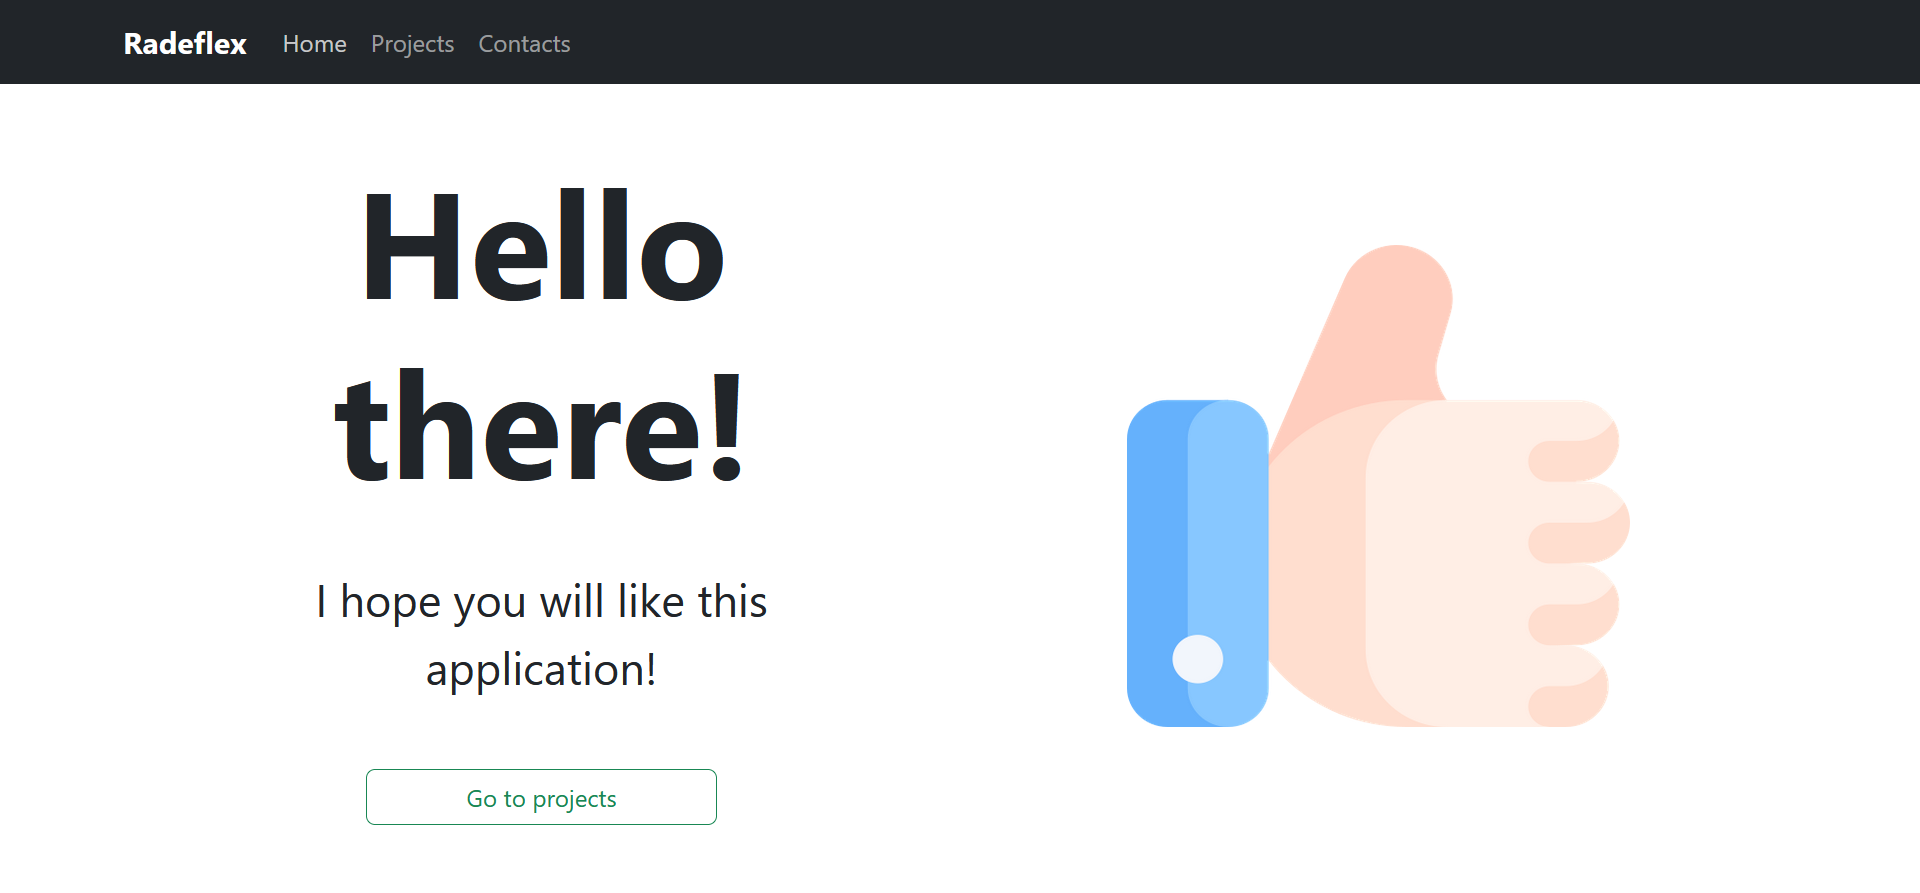
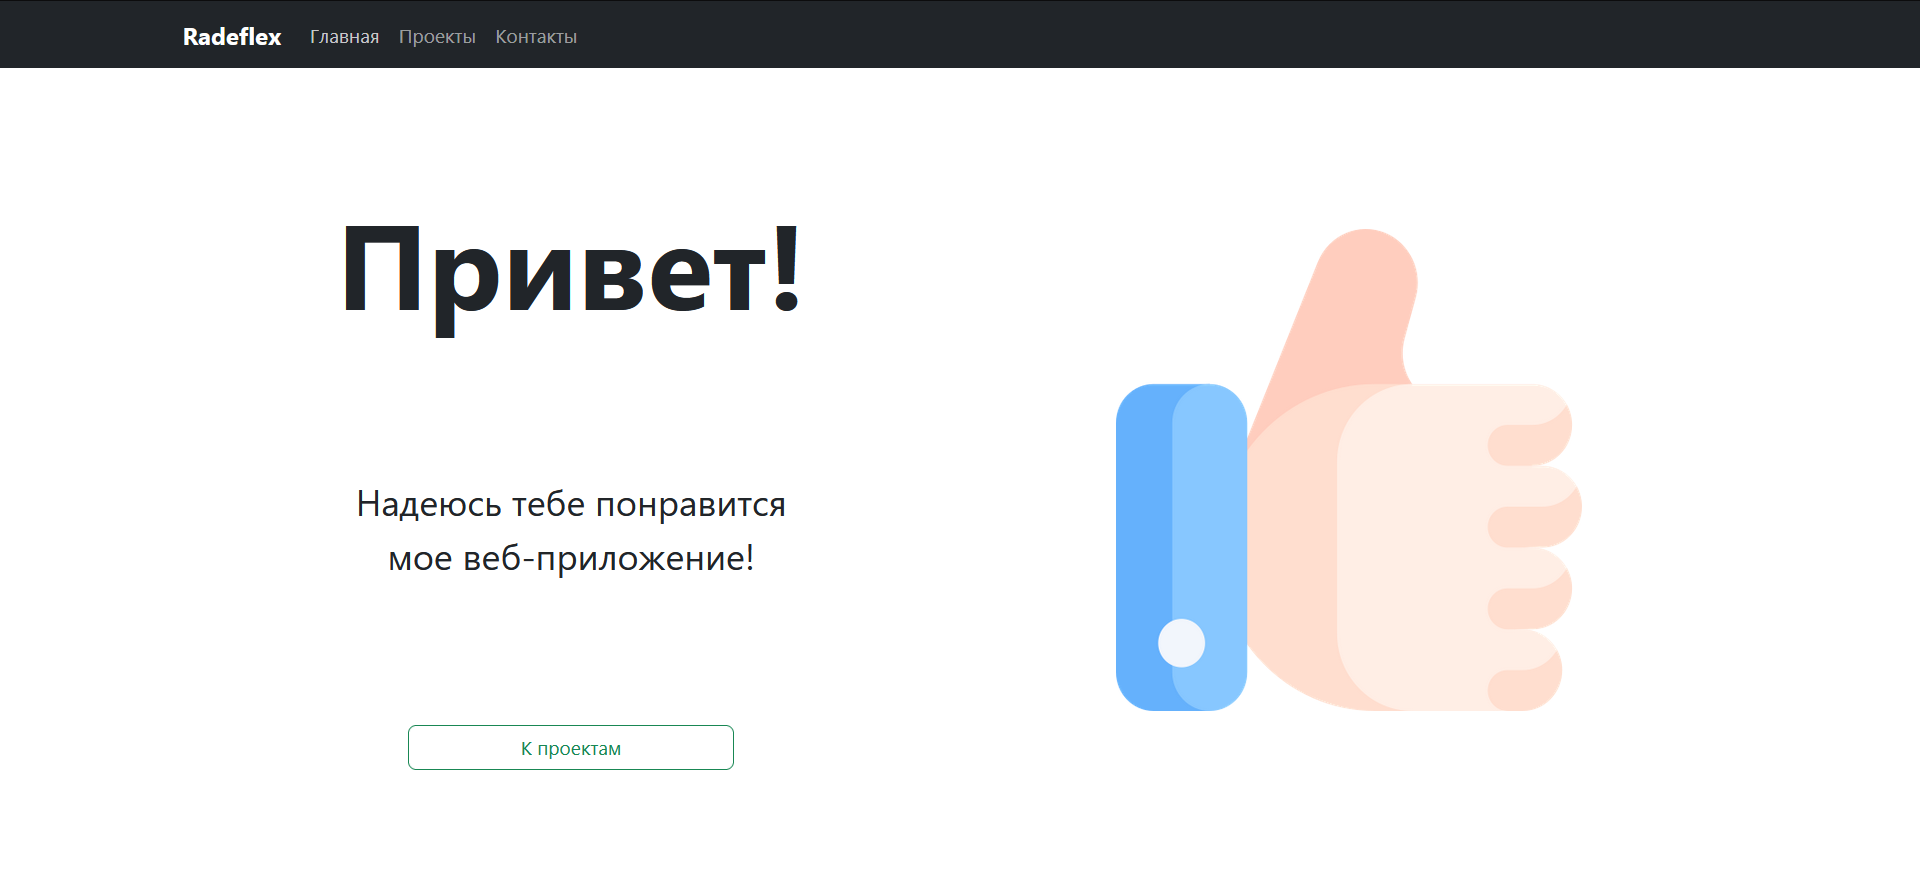
Language changed

diff --git a/src/components/ProjectEntry/ProjectEntry.jsx b/src/components/ProjectEntry/ProjectEntry.jsx
@@ -21,14 +21,14 @@ export default function ProjectEntry({ langs, author, title, repoLink, img }) {
         <Box sx={{ p: 5 }}>
           <Stack direction="column" spacing={0.25} alignItems="flex-start">
             <Typography variant="h5">{title}</Typography>
-            <Typography variant="h6">Author: {author}</Typography>
-            <Typography variant="h6">Languages:</Typography>
+            <Typography variant="h6">Автор: {author}</Typography>
+            <Typography variant="h6">Используются:</Typography>
           </Stack>
           <Stack
             direction="row"
             sx={{
               justifyContent: "space-between",
-              marginTop: "4%",
+              marginTop: "1%",
               flexWrap: "wrap",
             }}
           >
@@ -38,7 +38,7 @@ export default function ProjectEntry({ langs, author, title, repoLink, img }) {
               ))}
             </Stack>
             <Button variant="contained" href={repoLink}>
-              Go to
+              Перейти
             </Button>
           </Stack>
         </Box>

diff --git a/src/components/Navbar/Navbar.jsx b/src/components/Navbar/Navbar.jsx
@@ -10,9 +10,9 @@ export default function Navbar_() {
         <Container>
           <Navbar.Brand onClick={() => {navigate("/contacts")}} style={{fontWeight: 700, fontSize: "20px", cursor: "pointer"}}>Radeflex</Navbar.Brand>
           <Nav className="me-auto">
-            <Nav.Link onClick={() => {navigate("/")}}>Home</Nav.Link>
-            <Nav.Link onClick={() => {navigate("/projects")}}>Projects</Nav.Link>
-            <Nav.Link onClick={() => {navigate("/contacts")}}>Contacts</Nav.Link>
+            <Nav.Link onClick={() => {navigate("/")}}>Главная</Nav.Link>
+            <Nav.Link onClick={() => {navigate("/projects")}}>Проекты</Nav.Link>
+            <Nav.Link onClick={() => {navigate("/contacts")}}>Контакты</Nav.Link>
           </Nav>
         </Container>
       </Navbar>

diff --git a/src/pages/Home/Home.jsx b/src/pages/Home/Home.jsx
@@ -10,10 +10,10 @@ export default function Home() {
     <div>
       <Container className="_container">
         <section className="text-block">
-          <span className="home-title">Hello there!</span>
-          <p className="text">I hope you will like this application!</p>
+          <span className="home-title">Привет!</span>
+          <p className="text">Надеюсь тебе понравится мое веб-приложение!</p>
           <Button variant="outline-success" onClick={() => {navigate("/projects")}}>
-            Go to projects
+            К проектам
           </Button>
         </section>
         <img src={thumbup} alt="gift" className="block-img"/>

diff --git a/src/pages/Contacts/Contacts.jsx b/src/pages/Contacts/Contacts.jsx
@@ -11,7 +11,7 @@ export default function Contacts() {
   return (
     <div>
       <Container className={ContactsStyles.container}>
-        <h1 className={ContactsStyles.title}>Contacts</h1>
+        <h1 className={ContactsStyles.title}>Контакты</h1>
         <div className={ContactsStyles.contacts}>
           <Link href="https://vk.com/vvvagabond">
             <img className={ContactsStyles.contactsItem} src={vk} alt="vk" />

diff --git a/src/pages/Projects/Projects.jsx b/src/pages/Projects/Projects.jsx
@@ -28,7 +28,7 @@ export default function Projects() {
   }, [currentPage]);
   return (
     <Container className="__container">
-      <h1>Projects</h1>
+      <h1>Проекты</h1>
       <ProjectEntry
         langs={langs}
         title={title}
